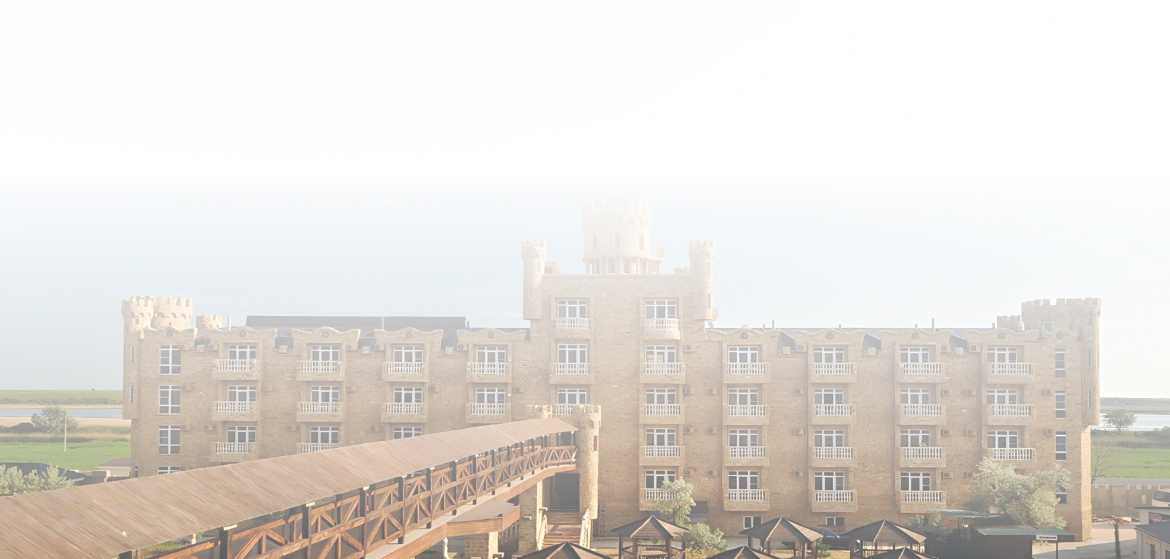
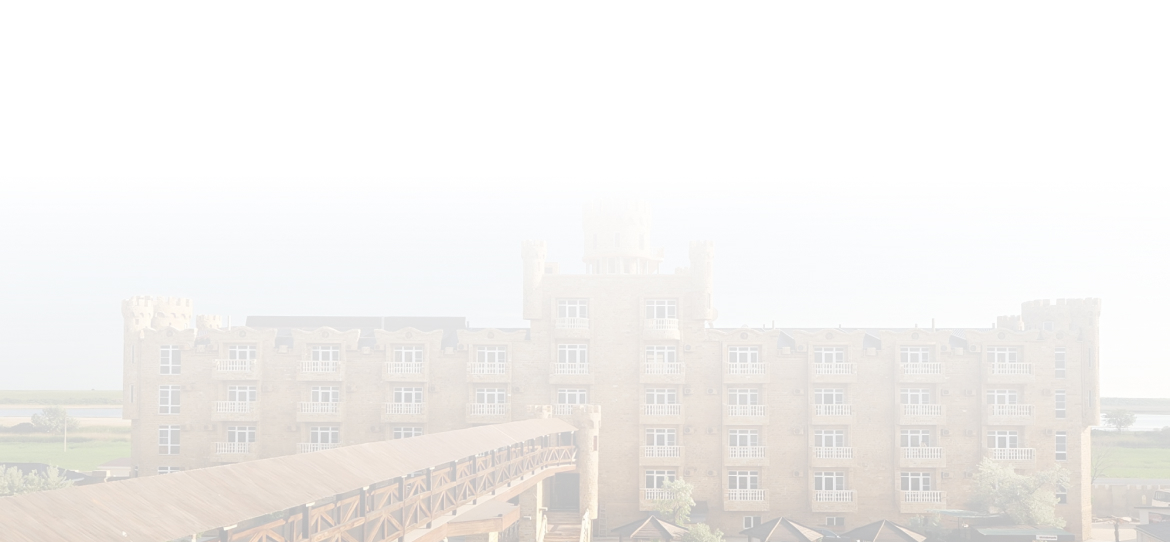
fix first-screen

diff --git a/family-holidays/index.html b/family-holidays/index.html
@@ -45,9 +45,9 @@
                     <a href="tel:+79957500642" class="phone phone-icon navigation__phone">+7 995 750-06-42</a>
                     <div class="messengers">
                         <ul class="messengers__list">
-                            <li class="messengers__item"><a href="#"><img src="image/icons/vk.svg" alt="Vk"
+                            <li class="messengers__item"><a target="_blank" href="https://vk.com/zamokazov"><img src="image/icons/vk.svg" alt="Vk"
                                         class="messengers__icon"></a></li>
-                            <li class="messengers__item"><a href="#"><img src="image/icons/tg.svg" alt="Telegram"
+                            <li class="messengers__item"><a target="_blank" href="https://t.me/zamokazov"><img src="image/icons/tg.svg" alt="Telegram"
                                         class="messengers__icon"></a></li>
                         </ul>
                     </div>
@@ -68,7 +68,7 @@
                     <nav class="menu">
                         <ul class="menu__list">
                             <li class="menu__item"><a href="/" class="menu__link">Главная</a></li>
-                            <li class="menu__item"><a href="booking.html" class="menu__link">Бронирование</a></li>
+                            <li class="menu__item"><a href="booking/index.html" class="menu__link">Бронирование</a></li>
                             <li class="menu__item"><a href="#hotel-rooms" class="menu__link">Номера</a></li>
                             <li class="menu__item"><a href="#reviews" class="menu__link">Отзывы</a></li>
                         </ul>
@@ -76,9 +76,9 @@
                             <a href="tel:+79957500642" class="phone phone-icon navigation__phone">+7 995 750-06-42</a>
                             <div class="messengers">
                                 <ul class="messengers__list">
-                                    <li class="messengers__item"><a href="#"><img src="image/icons/vk.svg" alt="Vk"
+                                    <li class="messengers__item"><a target="_blank" href="https://vk.com/zamokazov"><img src="image/icons/vk.svg" alt="Vk"
                                                 class="messengers__icon"></a></li>
-                                    <li class="messengers__item"><a href="#"><img src="image/icons/tg.svg"
+                                    <li class="messengers__item"><a target="_blank" href="https://t.me/zamokazov"><img src="image/icons/tg.svg"
                                                 alt="Telegram" class="messengers__icon"></a></li>
                                 </ul>
                             </div>
@@ -117,6 +117,52 @@
                     <a href="#hotel-rooms" class="button button-stroke">Наши номера</a>
                 </div>
             </footer>
+            <style>
+                #block-search, #block-search * {
+                  box-sizing: border-box;
+                }
+                #block-search {
+                  background-color: #FFFFFF;
+                  border-radius: 22px;
+                  width: 100%;
+                  max-width: 1170px;
+                  margin: 0 auto;
+                }
+                .tl-container {
+                  padding: 0 30px;
+                }
+              </style>
+              <!-- start TL Search form script -->
+              <div id='block-search'>
+                  <div id='tl-search-form' class='tl-container'>
+                      <noindex><a href='booking/index.html' rel='nofollow' target='_blank'>TravelLine</a></noindex>
+                  </div>
+              </div>
+              <script type='text/javascript'>
+                  (function(w) {
+                      var q = [
+                          ['setContext', 'TL-INT-azov-zamok_2023-03-07', 'ru'],
+                          ['embed', 'search-form', {
+                              container: 'tl-search-form'
+                          }]
+                      ];
+                       var h=["ru-ibe.tlintegration.ru","ibe.tlintegration.ru","ibe.tlintegration.com"];
+                      var t = w.travelline = (w.travelline || {}),
+                          ti = t.integration = (t.integration || {});
+                      ti.__cq = ti.__cq ? ti.__cq.concat(q) : q;
+                      if (!ti.__loader) {
+                        ti.__loader = true;
+                        var d=w.document,c=d.getElementsByTagName("head")[0]||d.getElementsByTagName("body")[0];
+                        function e(s,f) {return function() {w.TL||(c.removeChild(s),f())}}
+                        (function l(h) {
+                            if (0===h.length) return; var s=d.createElement("script");
+                            s.type="text/javascript";s.async=!0;s.src="https://"+h[0]+"/integration/loader.js";
+                            s.onerror=s.onload=e(s,function(){l(h.slice(1,h.length))});c.appendChild(s)
+                        })(h);
+                    }
+                  })(window);
+              </script>
+              <!-- end TL Search form script -->
         </div>
     </section>
     <section class="about">
@@ -154,7 +200,7 @@
                             <li>Общие холлы, лифт, игровая комната для детей</li>
                         </ul>
                     </div>
-                    <a href="booking.html" class="button">К бронированию</a>
+                    <a href="booking/index.html" class="button">К бронированию</a>
                 </div>
                 <div class="hotel-rooms__images">
                     <img src="image/content/rooms/double/1.jpg" alt="img1" class="hotel-rooms__image-overlay">
@@ -181,7 +227,7 @@
                             <li>Общие холлы, лифт, игровая комната для детей</li>
                         </ul>
                     </div>
-                    <a href="booking.html" class="button">К бронированию</a>
+                    <a href="booking/index.html" class="button">К бронированию</a>
                 </div>
                 <div class="hotel-rooms__images">
                     <img src="image/content/rooms/Triple/1.jpg" alt="img1" class="hotel-rooms__image-overlay">
@@ -207,7 +253,7 @@
                             <li>Общие холлы, лифт, игровая комната для детей</li>
                         </ul>
                     </div>
-                    <a href="booking.html" class="button">К бронированию</a>
+                    <a href="booking/index.html" class="button">К бронированию</a>
                 </div>
                 <div class="hotel-rooms__images">
                     <img src="image/content/rooms/Triple-nb/1.jpg" alt="img1" class="hotel-rooms__image-overlay">
@@ -235,7 +281,7 @@
                             <li>Общие холлы, лифт, игровая комната для детей</li>
                         </ul>
                     </div>
-                    <a href="booking.html" class="button">К бронированию</a>
+                    <a href="booking/index.html" class="button">К бронированию</a>
                 </div>
                 <div class="hotel-rooms__images">
                     <img src="image/content/rooms/four-room-standart/1.jpg" alt="img1"
@@ -270,7 +316,7 @@
                         </div>
 
                     </div>
-                    <a href="booking.html" class="button">К бронированию</a>
+                    <a href="booking/index.html" class="button">К бронированию</a>
                 </div>
                 <div class="hotel-rooms__images">
                     <img src="image/content/rooms/four-room-comfort/1.jpg" alt="img1"
@@ -457,9 +503,9 @@
                     <li><a href="mailto:gostinicaAzov@bk.ru" class="contacts__email">gostinicaAzov@bk.ru</a></li>
                 </ul>
                 <ul class="messengers__list contacts__messengers">
-                    <li class="messengers__item"><a href="#"><img src="image/icons/vk.svg" alt="Vk"
+                    <li class="messengers__item"><a target="_blank" href="https://vk.com/zamokazov"><img src="image/icons/vk.svg" alt="Vk"
                                 class="messengers__icon"></a></li>
-                    <li class="messengers__item"><a href="#"><img src="image/icons/tg.svg" alt="Telegram"
+                    <li class="messengers__item"><a target="_blank" href="https://t.me/zamokazov"><img src="image/icons/tg.svg" alt="Telegram"
                                 class="messengers__icon"></a></li>
                 </ul>
             </div>

diff --git a/family-holidays/booking/index.html b/family-holidays/booking/index.html
@@ -5,8 +5,8 @@
     <meta http-equiv="X-UA-Compatible" content="IE=edge">
     <meta name="viewport" content="width=device-width, initial-scale=1.0">
     <title>Живописный семейный отдых</title>
-    <link rel="stylesheet" href="style/style.css">
-    <link rel="stylesheet" href="style/media.css">
+    <link rel="stylesheet" href="../style/style.css">
+    <link rel="stylesheet" href="../style/media.css">
 </head>
 <body class="body-page">
     <header class="navigation navigation-grey animate__animated animate__fadeInDown wow">
@@ -16,16 +16,16 @@
                     <a href="tel:+79957500642" class="phone phone-icon navigation__phone">+7 995  750-06-42</a>
                     <div class="messengers">
                         <ul class="messengers__list">
-                            <li class="messengers__item"><a target="_blank" href="https://vk.com/zamokazov"><img src="image/icons/vk.svg" alt="Vk"
+                            <li class="messengers__item"><a target="_blank" href="https://vk.com/zamokazov"><img src="../image/icons/vk.svg" alt="Vk"
                                         class="messengers__icon"></a></li>
-                            <li class="messengers__item"><a target="_blank" href="https://t.me/zamokazov"><img src="image/icons/tg.svg" alt="Telegram"
+                            <li class="messengers__item"><a target="_blank" href="https://t.me/zamokazov"><img src="../image/icons/tg.svg" alt="Telegram"
                                         class="messengers__icon"></a></li>
                         </ul>
                     </div>
                 </div>
                 <div class="navigation__center-col">
                     <a href="/" class="logo navigation__logo">
-                        <img src="image/logo.png" alt="Замок Азов" class="logo__img">
+                        <img src="../image/logo.png" alt="Замок Азов" class="logo__img">
                     </a>
                 </div>
                 <div class="navigation__right-col">
@@ -79,7 +79,7 @@
         <div class="container">
             <div class="contacts__col-left">
                 <div class="contacts__logo">
-                    <img src="image/logo-contacts.png" alt="Замок Азов">
+                    <img src="../image/logo-contacts.png" alt="Замок Азов">
                 </div>
                 <ul class="contacts__list">
                     <li class="contacts__address">Пересыпь, ул. Калабадка 60</li>
@@ -87,9 +87,9 @@
                     <li><a href="mailto:gostinicaAzov@bk.ru" class="contacts__email">gostinicaAzov@bk.ru</a></li>
                 </ul>
                 <ul class="messengers__list contacts__messengers">
-                    <li class="messengers__item"><a target="_blank" href="https://vk.com/zamokazov"><img src="image/icons/vk.svg" alt="Vk"
+                    <li class="messengers__item"><a target="_blank" href="https://vk.com/zamokazov"><img src="../image/icons/vk.svg" alt="Vk"
                                 class="messengers__icon"></a></li>
-                    <li class="messengers__item"><a target="_blank" href="https://t.me/zamokazov"><img src="image/icons/tg.svg" alt="Telegram"
+                    <li class="messengers__item"><a target="_blank" href="https://t.me/zamokazov"><img src="../image/icons/tg.svg" alt="Telegram"
                                 class="messengers__icon"></a></li>
                 </ul>
             </div>
@@ -98,7 +98,7 @@
             </div>
         </div>
     </section>
-    <script src="scripts/main.js"></script>
-    <script src="scripts/jquery.min.js"></script>
+    <script src="../scripts/main.js"></script>
+    <script src="../scripts/jquery.min.js"></script>
 </body>
 </html>

diff --git a/family-holidays/style/style.css b/family-holidays/style/style.css
@@ -193,6 +193,7 @@ body, html {
     background-size: cover;
     padding-bottom: 150px;
     padding-top: 27vh;
+    background-position: bottom center;
 }
 
 .phone-icon::before {
